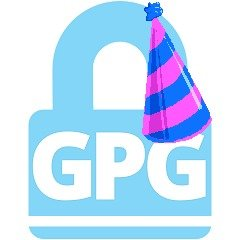
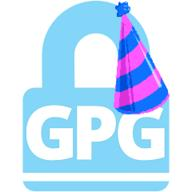
optimized image compression

diff --git a/_posts/2018-06-18-event-annotator-wanted-english.md b/_posts/2018-06-18-event-annotator-wanted-english.md
@@ -46,7 +46,7 @@ Groot-Brittanniëlaan 45
 ### INTERESTED? 
 Please contact Gilles Jacobs at GillesM.Jacobs@ugent.be
 
-![LT3 Annotator Event English Flyer](/img/lt3annotatoreventenglish.png){:class="img-responsive"}
+![LT3 Annotator Event English Flyer](/img/lt3annotatoreventenglish.jpg){:class="img-responsive"}
 
 #### Nederlands Vacature Informatie
 ## JOBSTUDENTEN GEZOCHT
@@ -84,4 +84,4 @@ Groot-Brittanniëlaan 45
 ### GEÏNTERESSEERD?
 Neem contact op met Gilles Jacobs op GillesM.Jacobs@ugent.be
 
-![LT3 Annotator Event Dutch Flyer](/img/lt3annotatoreventdutch.png){:class="img-responsive"}
+![LT3 Annotator Event Dutch Flyer](/img/lt3annotatoreventdutch.jpg){:class="img-responsive"}
